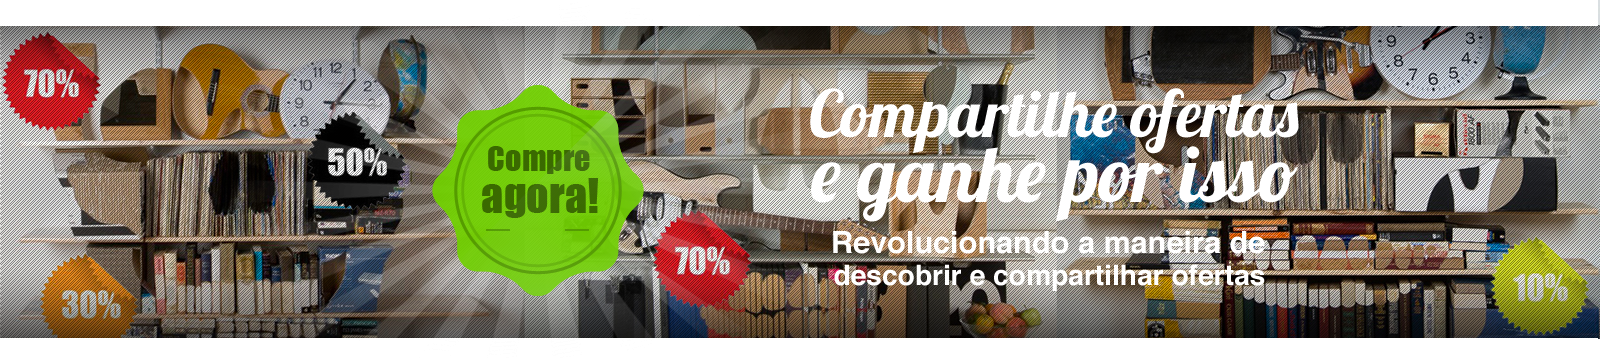
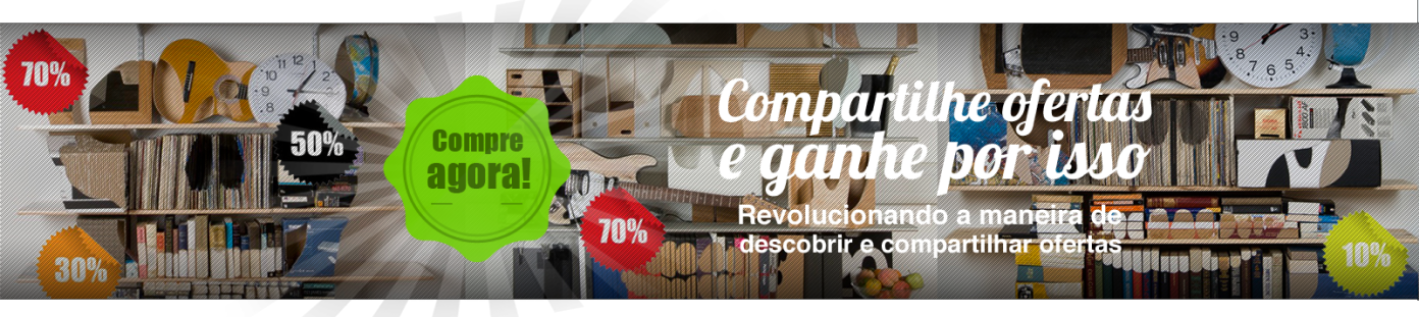
colocando imagem de chamada na header

diff --git a/app/assets/stylesheets/home_header.css.scss b/app/assets/stylesheets/home_header.css.scss
@@ -1,4 +1,11 @@
 body {
+  #header_image {
+    background: image-url('home_header.png') 0 -27px no-repeat;
+    margin: 0;
+    display: block;
+    height: 270px;
+  }
+
   #home_header {
     background: #F4F4F2;
     width: 157%;
